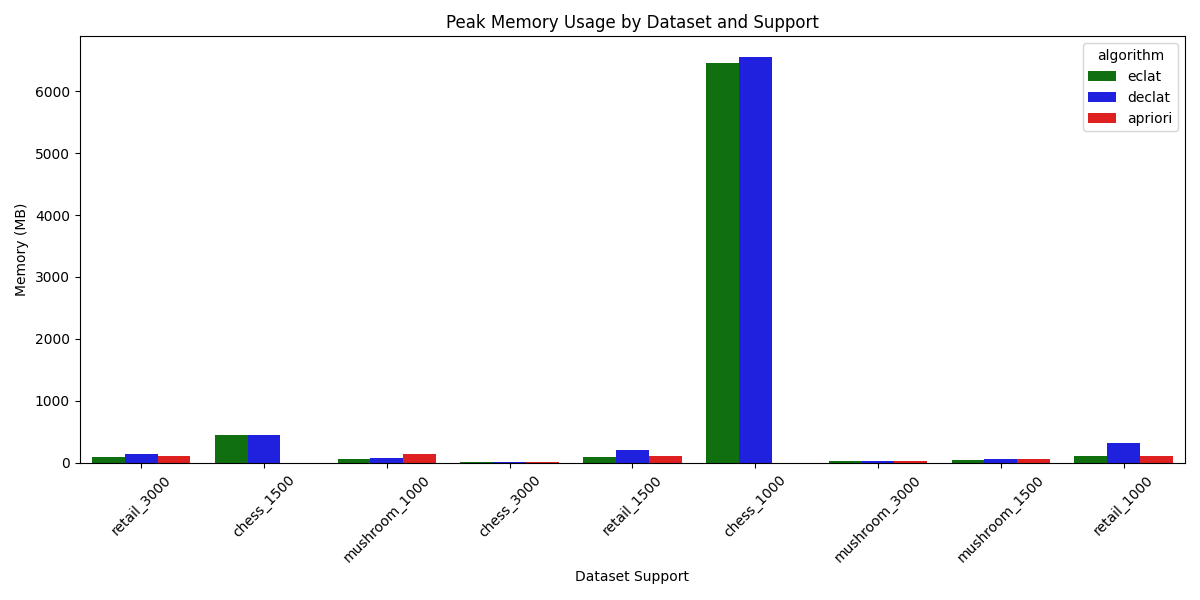
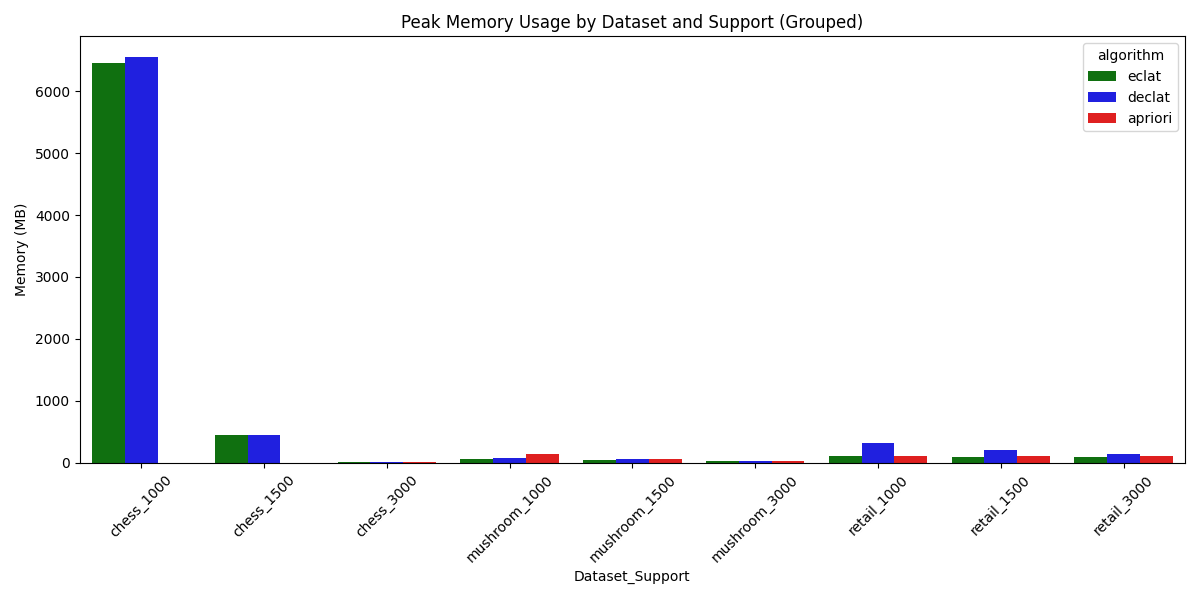
fix memory plot

diff --git a/plots.py b/plots.py
@@ -5,9 +5,9 @@ import os
 
 # Load CSV
 df = pd.read_csv("experiment_summary.csv")
-df = df.dropna(subset=["mining_time"])  #remove incomplete rows
+df = df.dropna(subset=["mining_time"])  # Remove incomplete rows
 
-#colors
+# Consistent colors
 algorithm_colors = {
     "apriori": "red",
     "eclat": "green",
@@ -16,7 +16,7 @@ algorithm_colors = {
 
 os.makedirs("plots", exist_ok=True)
 
-#Mining Time vs. Support per dataset (3 plots)
+# === Plot 1: Mining Time vs. Support per Dataset ===
 for dataset in df["dataset"].unique():
     subset = df[df["dataset"] == dataset]
     plt.figure(figsize=(8, 5))
@@ -37,19 +37,30 @@ for dataset in df["dataset"].unique():
     plt.savefig(f"plots/{dataset}_mining_time.png")
     plt.close()
 
-#Peak Memory Usage (bar chart)
-plt.figure(figsize=(12, 6))
+# === Plot 2: Peak Memory Usage Grouped by Dataset ===
+# Create a label column like "retail_1000"
 df["label"] = df["dataset"] + "_" + df["support_value"].astype(str)
+
+# Sort labels grouped by dataset, then ascending support
+sorted_labels = (
+    df.sort_values(by=["dataset", "support_value"])
+    .drop_duplicates(subset=["label"])
+    ["label"]
+    .tolist()
+)
+
+plt.figure(figsize=(12, 6))
 sns.barplot(
     data=df,
     x="label",
     y="peak_memory_MB",
     hue="algorithm",
+    order=sorted_labels,
     palette=algorithm_colors
 )
 plt.xticks(rotation=45)
-plt.title("Peak Memory Usage by Dataset and Support")
-plt.xlabel("Dataset Support")
+plt.title("Peak Memory Usage by Dataset and Support (Grouped)")
+plt.xlabel("Dataset_Support")
 plt.ylabel("Memory (MB)")
 plt.tight_layout()
 plt.savefig("plots/peak_memory_usage.png")
